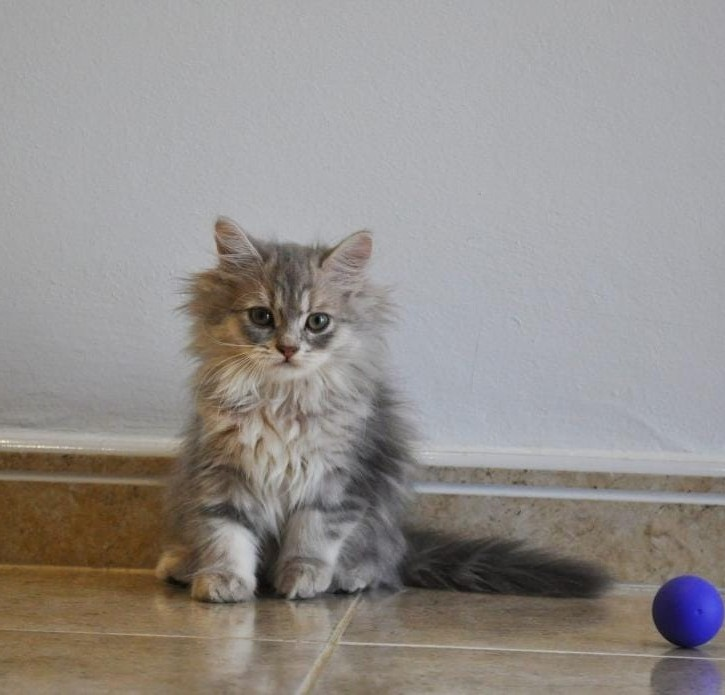
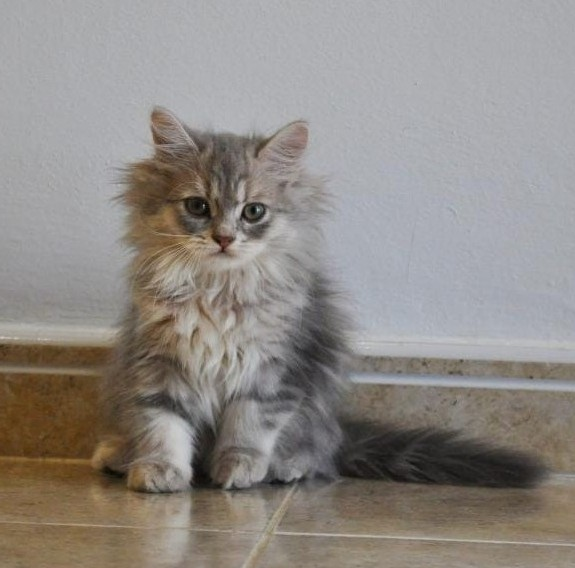
Nuevas adopciones

diff --git a/src/scripts/gatos-europeo.js b/src/scripts/gatos-europeo.js
@@ -9,6 +9,8 @@ import platon from "../assets/img/nuestros_gatos/Bluey/Camada3/Platon/Platon4848
 import platon2 from "../assets/img/nuestros_gatos/Bluey/Camada3/Platon/Platon67675.jpeg";
 import nieve from "../assets/img/nuestros_gatos/Bluey/Camada3/Nieve/nieve28383.jpeg";
 import nieve2 from "../assets/img/nuestros_gatos/Bluey/Camada3/Nieve/nieve28783.jpeg";
+import loki from "../assets/img/nuestros_gatos/Bluey/Camada3/Loki/loki4838448.jpeg";
+import loki2 from "../assets/img/nuestros_gatos/Bluey/Camada3/Loki/loki34343.jpeg";
 
 export const gatosEuropeo = [
     {
@@ -63,29 +65,29 @@ export const gatosEuropeo = [
         alt: "Nieve imagen",
         color: "Blanco",
         raza: "Persa Europeo",
-        disponibleEstilo: "absolute top-4 right-4 bg-green-500 text-white text-xs font-bold px-3 py-1 rounded-full shadow-lg",
-        disponibleTexto: "✓ Disponible"
+        disponibleEstilo: "absolute top-4 right-4 bg-red-500 text-white text-xs font-bold px-3 py-1 rounded-full shadow-lg",
+        disponibleTexto: "✗ Adoptado"
     },
     {
-        name: "",
-        gender: "",
+        name: "Loki",
+        gender: "Macho",
         birth: "2026-03-24",
-        images: [unknown.src],
-        alt: "",
-        color: "",
+        images: [loki.src, loki2.src],
+        alt: "Loki imagen",
+        color: "Atigrado",
         raza: "Persa Europeo",
-        disponibleEstilo: "absolute top-4 right-4 bg-green-500 text-white text-xs font-bold px-3 py-1 rounded-full shadow-lg",
-        disponibleTexto: "✓ Disponible"
+        disponibleEstilo: "absolute top-4 right-4 bg-red-500 text-white text-xs font-bold px-3 py-1 rounded-full shadow-lg",
+        disponibleTexto: "✗ Adoptado"
     },
     {
-        name: "",
-        gender: "",
+        name: "Thor",
+        gender: "Macho",
         birth: "2026-03-24",
         images: [unknown.src],
-        alt: "",
-        color: "",
+        alt: "Thor imagen",
+        color: "Blanco",
         raza: "Persa Europeo",
-        disponibleEstilo: "absolute top-4 right-4 bg-green-500 text-white text-xs font-bold px-3 py-1 rounded-full shadow-lg",
-        disponibleTexto: "✓ Disponible"
+        disponibleEstilo: "absolute top-4 right-4 bg-red-500 text-white text-xs font-bold px-3 py-1 rounded-full shadow-lg",
+        disponibleTexto: "✗ Adoptado"
     },
 ];

diff --git a/src/scripts/gatos-chinchilla.js b/src/scripts/gatos-chinchilla.js
@@ -22,7 +22,7 @@ export const gatosChinchilla = [
     },
     {
         name: "Garfield",
-        gender: "Hembra",
+        gender: "Macho",
         birth: "2026-03-24",
         images: [garfield.src, garfield2.src],
         alt: "Garfield imagen",
@@ -50,8 +50,8 @@ export const gatosChinchilla = [
         alt: "Socrates imagen",
         color: "Negro",
         raza: "Persa Chinchilla",
-        disponibleEstilo: "absolute top-4 right-4 bg-green-500 text-white text-xs font-bold px-3 py-1 rounded-full shadow-lg",
-        disponibleTexto: "✓ Disponible"
+        disponibleEstilo: "absolute top-4 right-4 bg-red-500 text-white text-xs font-bold px-3 py-1 rounded-full shadow-lg",
+        disponibleTexto: "✗ Adoptado"
     },
     {
         name: "Copo",
@@ -61,7 +61,7 @@ export const gatosChinchilla = [
         alt: "Copo imagen",
         color: "Blanco",
         raza: "Persa Chinchilla",
-        disponibleEstilo: "absolute top-4 right-4 bg-green-500 text-white text-xs font-bold px-3 py-1 rounded-full shadow-lg",
-        disponibleTexto: "✓ Disponible"
+        disponibleEstilo: "absolute top-4 right-4 bg-red-500 text-white text-xs font-bold px-3 py-1 rounded-full shadow-lg",
+        disponibleTexto: "✗ Adoptado"
     }
 ];